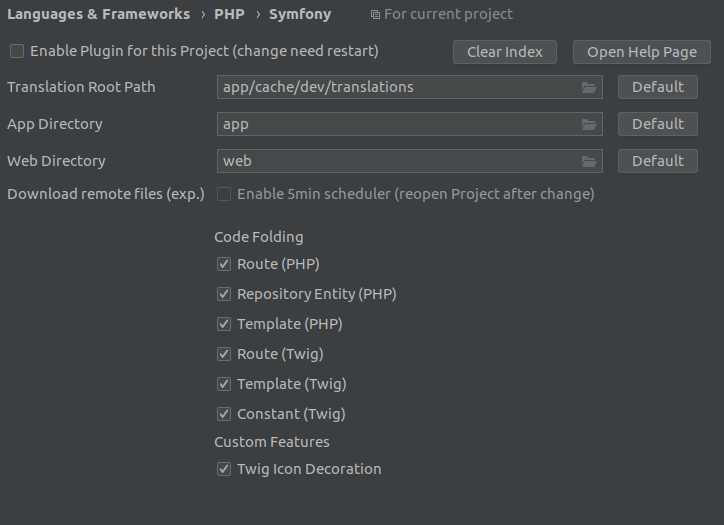
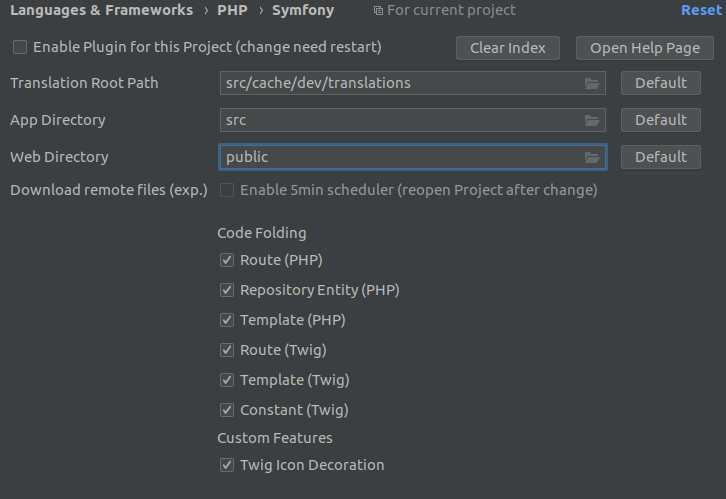
(update)[linter]{Заменил опечатку export->import, заменил картинку для настроек symfony plugin, изменил настройки линтера.}

diff --git a/Readme.md b/Readme.md
@@ -1,10 +1,10 @@
 ## Ручные настройки
 | №   | Plugin           | Description  |
 | --- |-------------| -----:|
-| 1.  | ![UTF-8](https://raw.githubusercontent.com/demoneno4ec/PhpStormSettings/master/images/FileEncodings.png)                            | Editor->File Encodings |
-| 2.  | ![Set version](https://raw.githubusercontent.com/demoneno4ec/PhpStormSettings/master/images/SetPhpVersion.png)                       | Languages&Frameworks->PHP |
-| 3.  | ![Set editor settings](https://raw.githubusercontent.com/demoneno4ec/PhpStormSettings/master/images/SetEditorSettings.png)                            | Перевод каретки, версия пыхи, количество пробелов при табуляции, encoding |
-| 4.  | [Symfony settings](https://github.com/demoneno4ec/PhpStormSettings/tree/master/images/symfony)   | Languages&Frameworks->PHP->Symfony |
+| 1.  | ![UTF-8](https://raw.githubusercontent.com/demoneno4ec/PhpStormSettings/master/images/FileEncodings.png)                        | Editor->File Encodings |
+| 2.  | ![Set version](https://raw.githubusercontent.com/demoneno4ec/PhpStormSettings/master/images/SetPhpVersion.png)                  | Languages&Frameworks->PHP |
+| 3.  | ![Set editor settings](https://raw.githubusercontent.com/demoneno4ec/PhpStormSettings/master/images/SetEditorSettings.png)      | Перевод каретки, версия пыхи, количество пробелов при табуляции, encoding |
+| 4.  | [Symfony settings](https://github.com/demoneno4ec/PhpStormSettings/tree/master/images/symfony)                                  | Languages&Frameworks->PHP->Symfony |
 
 ## Экспортируемые настройки
 
@@ -28,7 +28,7 @@ _Должна стоять галочка **"Enable Editor Config Support".**_
 [Spoiler](https://github.com/demoneno4ec/PhpStormSettings/blob/master/images/InspectionsExport.png)
 
 - Напротив select Profile нажимаем шестеренку ![settings](https://raw.githubusercontent.com/demoneno4ec/PhpStormSettings/master/images/Settings.png "settings")
-- В выпадающем меню, нажимаем export 
+- В выпадающем меню, нажимаем import 
 - Выбираем файл MicroService.xml
 - Нажимаем Apply
 
